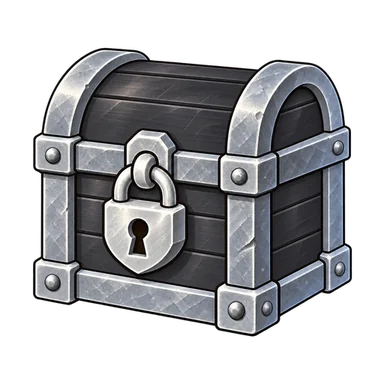
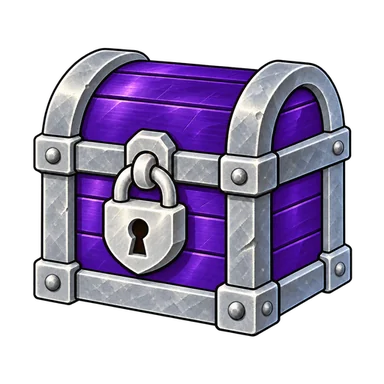
Use the owner's final Blitz chests: violet and silver for the middle band
The owner approved the five band chests and picked the middle one. Only the
25-50 percent chest changed from the set already in the app (the charcoal one is
rejected): its sealed and opened images are replaced, scaled to 384 px WebP as
the others. The lab's sealed and opening reward screens show the middle band.

diff --git a/apps/game/src/shell/lab/app-lab-fixtures.ts b/apps/game/src/shell/lab/app-lab-fixtures.ts
@@ -419,10 +419,11 @@ const SEALED: Reward = {
 /** The payout wallet's result and chest on each reward screen: what the ledger would answer. */
 export const LAB_REWARDS: Partial<Record<keyof typeof LAB_SCREENS, Reward>> = {
   "reward-pending": { ...SEALED, result: { ...RESULT, rank: 0, chestId: 0n }, chest: null },
-  "reward-sealed": SEALED,
+  // The middle band, the chest the owner picked.
+  "reward-sealed": { ...SEALED, chest: { ...CHEST, band: 2 } },
   "reward-no-strk": { ...SEALED, strk: 0n },
   "reward-after-season": { ...SEALED, chest: { ...CHEST, band: 3 }, seasonEnd: NOW - DAY },
-  "reward-opening": { ...SEALED, chest: { ...OPENED, finished: false }, held: false },
+  "reward-opening": { ...SEALED, chest: { ...OPENED, band: 2, finished: false }, held: false },
   "reward-epic": { ...SEALED, chest: OPENED, held: false, content: { kind: "cosmetic", attributes: "0x4040d01" } },
   "reward-lords": { ...SEALED, chest: OPENED, held: false, content: { kind: "lords", amount: 700n * WEI } },
   "reward-credit": {
